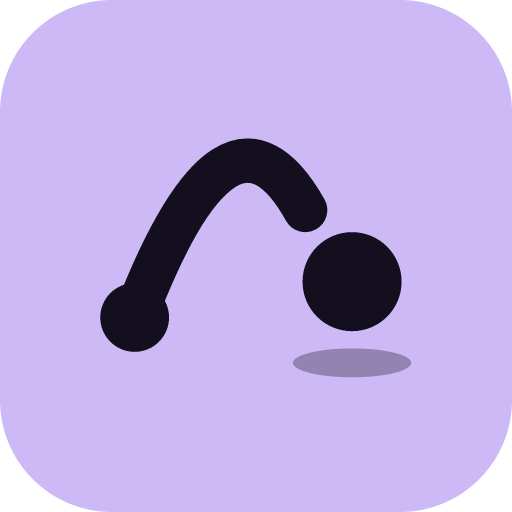
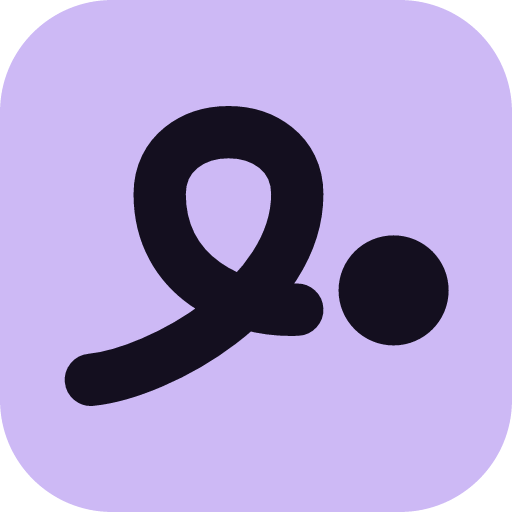
Brand: swap the Hop for the Loop
The Hop (a stroke with a round end on each side) read as something rude
once somebody pointed it out. The Loop is one stroke that ties a single
loop and lets go of the dot: still a link sent on its way, no shape to
misread, and one path plus one circle, so it can animate later (the
stroke draws, the dot lands).

Checked against 40 icons (18 link shorteners plus loop-named brands):
nearest are lasso.io (an open loop, no dot) and relay.app (dots on a
path), neither close.

- logo.tsx, favicon (heavier small cut), logo.svg, connector icon,
  email logo and OG image redrawn.
- rdyrct-design: the mark section describes the Loop and the two shapes
  it must never become.

Changed region(s): [[0.125, 0.1875, 0.875, 0.8125]]

diff --git a/src/app/ui/logo.tsx b/src/app/ui/logo.tsx
@@ -1,25 +1,27 @@
 import { cn } from "./cn";
 
 /**
- * The Hop mark without its tile: a click leaves one place, arcs, and lands.
- * The arc takes the text colour and the landing dot the accent, so it follows
- * the theme. The tiled version is the favicon and app icon (public/favicon.svg,
- * public/connector-icon.svg); next to the word, the tile would be a second
- * box around one name.
+ * The Loop mark without its tile: one stroke ties a loop and lets go of the
+ * dot, a link sent on its way. The stroke takes the text colour and the dot
+ * the accent, so it follows the theme. The tiled version is the favicon and
+ * app icon (public/favicon.svg, public/connector-icon.svg); next to the word,
+ * the tile would be a second box around one name.
  */
 function LogoMark({ className }: { className?: string }) {
   return (
-    <svg viewBox="3.6 7 23.6 17.8" aria-hidden="true" className={cn("h-[0.9em] w-auto", className)}>
+    <svg
+      viewBox="2.1 4.6 27.9 21.8"
+      aria-hidden="true"
+      className={cn("h-[0.95em] w-auto", className)}
+    >
       <path
-        d="M6.6 20Q13.4 2.2 19 12.2"
+        d="M4 24.5C9 24 19 18.5 19 11C19 5 9 5 9 11C9 17 14.5 19.6 19 19.4"
         fill="none"
         stroke="currentColor"
-        strokeWidth="3.2"
+        strokeWidth="3.8"
         strokeLinecap="round"
       />
-      <circle cx="6.6" cy="20" r="2.5" fill="currentColor" />
-      <circle cx="22.4" cy="17.4" r="3.6" className="fill-accent" />
-      <ellipse cx="22.4" cy="23.3" rx="4.3" ry="1.05" className="fill-border" />
+      <circle cx="26" cy="18" r="4" className="fill-accent" />
     </svg>
   );
 }

diff --git a/scripts/og-image.html b/scripts/og-image.html
@@ -66,7 +66,7 @@
         padding: 68px 96px 64px;
       }
 
-      /* The Hop mark without its tile, oversized and bled off the right
+      /* The Loop mark without its tile, oversized and bled off the right
          edge. Recessive: it frames, it does not compete. */
       .watermark {
         position: absolute;
@@ -142,17 +142,15 @@
     </style>
   </head>
   <body>
-    <svg class="watermark" viewBox="3.6 7 23.6 17.8" fill="currentColor" aria-hidden="true">
+    <svg class="watermark" viewBox="2.1 4.6 27.9 21.8" fill="currentColor" aria-hidden="true">
       <path
-        d="M6.6 20Q13.4 2.2 19 12.2"
+        d="M4 24.5C9 24 19 18.5 19 11C19 5 9 5 9 11C9 17 14.5 19.6 19 19.4"
         fill="none"
         stroke="currentColor"
-        stroke-width="3.2"
+        stroke-width="3.8"
         stroke-linecap="round"
       />
-      <circle cx="6.6" cy="20" r="2.5" />
-      <circle cx="22.4" cy="17.4" r="3.6" />
-      <ellipse cx="22.4" cy="23.3" rx="4.3" ry="1.05" />
+      <circle cx="26" cy="18" r="4" />
     </svg>
 
     <div class="brand">

diff --git a/src/worker/email-layout.ts b/src/worker/email-layout.ts
@@ -103,7 +103,7 @@ function codeBlock(code: string): SafeHtml {
   return emailHtml`<div class="code" style="margin:24px 0;padding:16px;border:1px solid ${LIGHT.border};border-radius:8px;background:${LIGHT.surface2};font-family:${CODE_FONT};font-size:30px;font-weight:700;letter-spacing:6px;text-align:center;color:${LIGHT.text}">${code}</div>`;
 }
 
-/** The brand band across the top of every email: the Hop mark and the
+/** The brand band across the top of every email: the Loop mark and the
  * wordmark, outlined from Figtree Bold, on a band that stays dark in both
  * themes. The image's alt text carries the word in the same colour if a client
  * blocks images. */

diff --git a/tests/e2e/public-pages.pw.ts b/tests/e2e/public-pages.pw.ts
@@ -598,7 +598,7 @@ test("the homepage's first Tab is a skip link into main", async ({ page }) => {
   await expect(page.getByRole("main")).toHaveAttribute("id", "main");
 });
 
-// The Hop mark sits next to the name in the header and the footer. The mark is
+// The Loop mark sits next to the name in the header and the footer. The mark is
 // decoration, so the link still reads as the bare name to a screen reader and
 // to every test that finds it by "rdyrct".
 test("header and footer carry the logo, named by the word alone", async ({ page }) => {

diff --git a/.claude/skills/rdyrct-design/SKILL.md b/.claude/skills/rdyrct-design/SKILL.md
@@ -69,12 +69,14 @@ Both themes are equal. Neither is the afterthought. Style through tokens only, s
 
 ## The mark
 
-The Hop: a small dot leaves, an arc carries it, a gap, and a larger dot lands with a flat shadow under it. A click going from a short link to its destination. Keep the dot; an arrowhead in its place turns it into the redo icon.
+The Loop: one stroke rises, ties a single loop, and lets go of the dot. A link sent on its way. It is one path and one circle so it can animate: the stroke draws itself, then the dot lands.
+
+Two things it must never become. A stroke with a round blob at each end (the mark this replaced read as something rude). And an arrowhead in place of the dot, which turns any curve into the redo icon.
 
 - **In the interface, use `Logo`** (`src/app/ui/logo.tsx`): the glyph and the word, sized by the font size it sits in. Never retype the name in bold or tracked caps as a brand.
 - **No tile next to the word.** The lavender tile belongs to places where the mark stands alone: the favicon (`public/favicon.svg`), the app and connector icon (`public/connector-icon.svg`), the OG image.
-- **Colour follows the theme.** In the interface the arc and launch dot take `currentColor`, the landing dot `fill-accent` and the shadow `fill-border`. On the tile the ink is `#140f1f` on `#cdb9f5`, shadow `#9283b1`.
-- **At 24px and below use the small cut**: a thicker arc, bigger dots, no shadow. `favicon.svg` is that cut. The full mark turns to mush at 16px.
+- **Colour follows the theme.** In the interface the stroke takes `currentColor` and the dot `fill-accent`. On the tile both are `#140f1f` on `#cdb9f5`.
+- **At 24px and below use the small cut**: a heavier stroke and dot, so the loop stays open. `favicon.svg` is that cut.
 - **The wordmark** in the static files (`public/logo.svg`, `public/email-logo.png`) is Figtree 700 at −3.5% tracking, converted to outlines so it renders without the font. In the app it is live text in the same face.
 
 ## Components
